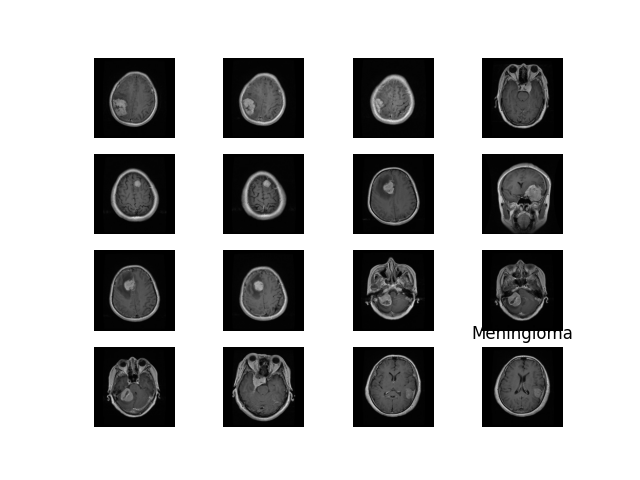
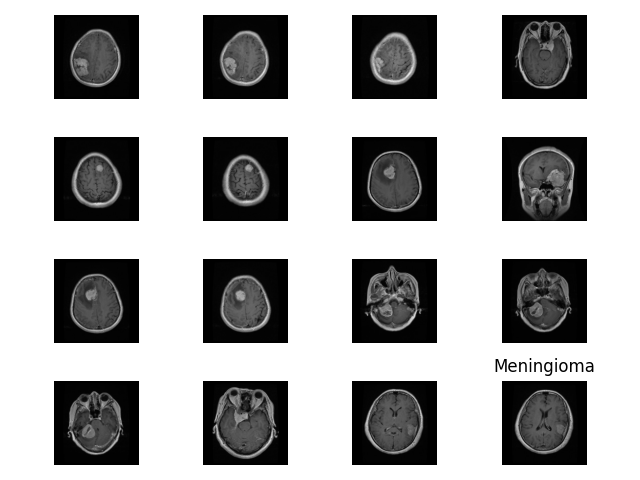
layout of tumor images

diff --git a/trdata.py b/trdata.py
@@ -9,7 +9,7 @@ import torch
 import pandas as pd
 from sklearn.preprocessing import StandardScaler
 from torch.utils.data import Dataset, DataLoader
-import os
+import random
 
 from PIL import Image 
 import torchvision.transforms as transforms
@@ -166,4 +166,44 @@ for i in range(0, 4):
 
 plt.tight_layout()
 plt.savefig("pituitary.png")
+plt.close()
+
+
+fig, axs = plt.subplots(4,4)
+for i in range(0, 4):
+    k=random.randint(0,1000)
+    for j in range(0,4):
+        if(i == 0):
+            img = Image.open(training_glioma[k])
+            axs[i,j].imshow(img)
+            axs[i,j].axis('off')
+            strk = "glioma: " + str(k)
+            axs[i,j].set_title(strk)
+         
+        elif i == 1:
+            img = Image.open(training_meningioma[k])
+            axs[i,j].imshow(img)
+            axs[i,j].axis('off')
+            strk = "meningioma: " + str(k)
+            axs[i,j].set_title(strk)
+    
+        elif i == 2:
+            img = Image.open(training_notumor[k])
+            axs[i,j].imshow(img)
+            axs[i,j].axis('off')
+            strk = "notumor: " + str(k)
+            axs[i,j].set_title(strk)
+
+
+        elif i == 3:
+            img = Image.open(training_pituitary[k])
+            axs[i,j].imshow(img)
+            axs[i,j].axis('off')
+            strk = "pituitary: " + str(k)
+            axs[i,j].set_title(strk)
+
+        k = k + 1
+
+plt.tight_layout()
+plt.savefig("all.png")
 plt.close()
